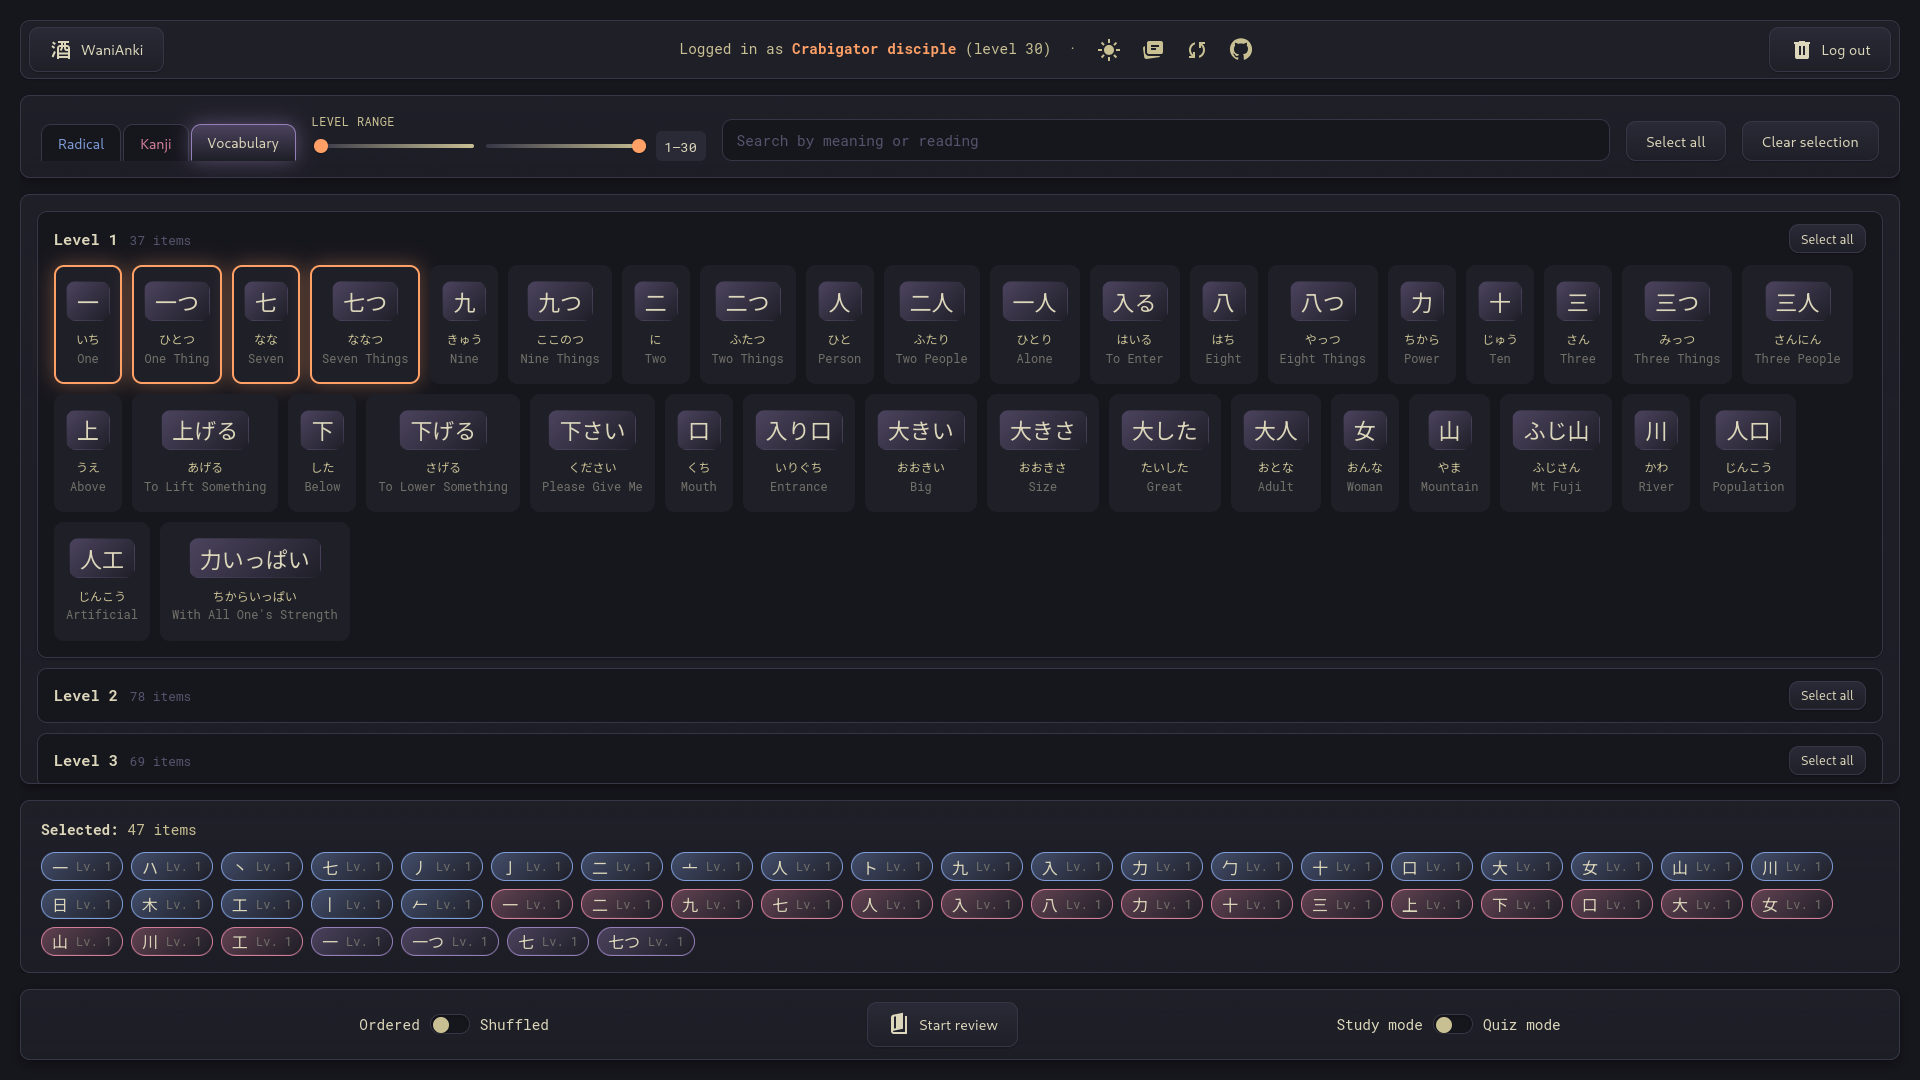
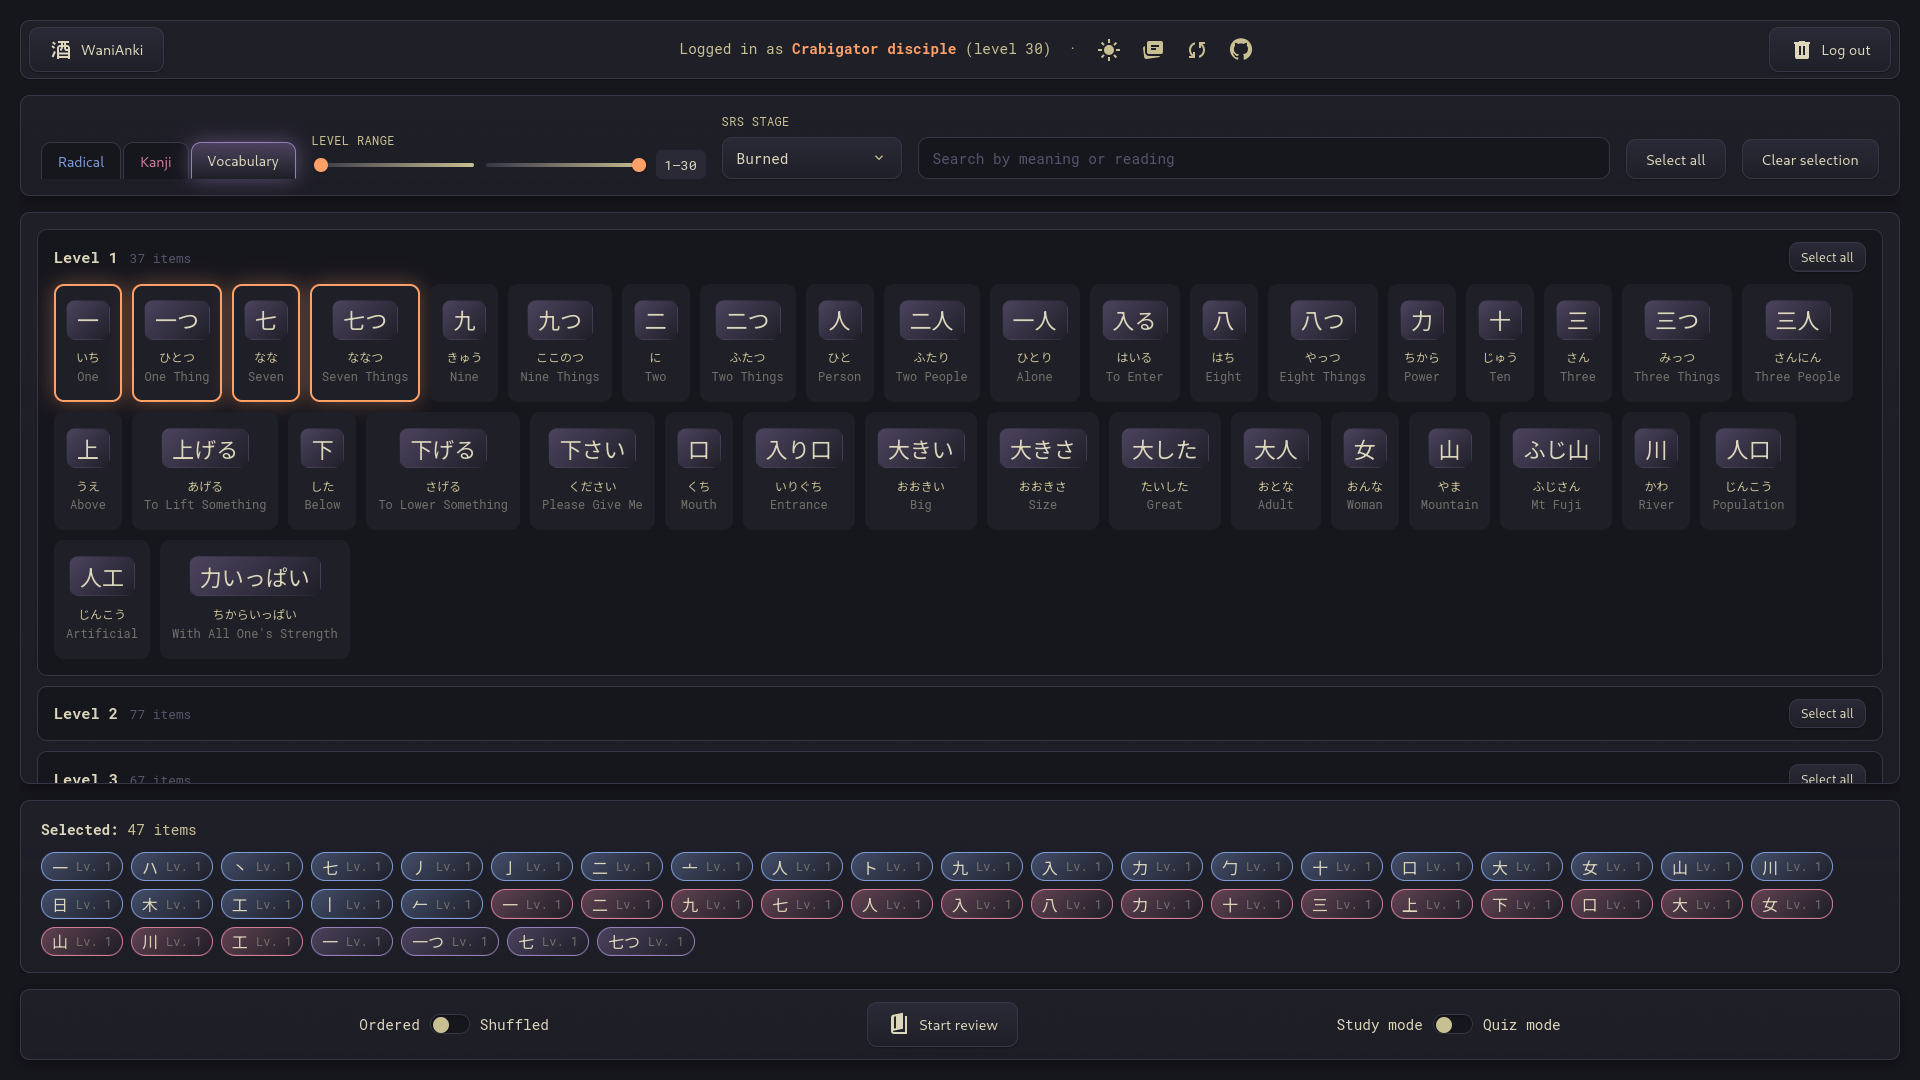
docs: Update README and pictures for SRS stages filtering feature.

diff --git a/README.md b/README.md
@@ -5,7 +5,7 @@ A lightweight web application that **fetches review subjects from your WaniKani 
 ## Features
 
 - 📴 **Offline reviews** — review cached subjects without an active network connection.
-- 🎯 **Flexible selection** — filter by subject type and level range, search by meaning or reading, or toggle entire levels at once.
+- 🎯 **Flexible selection** — filter by subject type, level range, and SRS stage, search by meaning or reading, or toggle entire levels at once.
 - 💾 **Local persistence** — all data is stored in-browser using the OPFS API.
 - 📚 **Two review modes** — study mode for reading content, quiz mode for testing yourself.
 - 🗂️ **Saved review decks** — save your current selection as a named deck and load it later for quick access.
@@ -20,7 +20,7 @@ A lightweight web application that **fetches review subjects from your WaniKani 
 Provide a valid WaniKani personal access token with `all_data:read` permission.
 
 ![selection-page](./assets/selection-page.png)
-Select subjects using the tabbed filter (radical, kanji, vocabulary), adjust the level range with sliders, or search by meaning or reading with autocomplete suggestions. Browse subjects grouped by level, toggle entire levels at once, or click individual items. Selected subjects appear as removable chips at the bottom. Choose ordered or shuffled review, then start in either study mode or quiz mode.
+Select subjects using the tabbed filter (radical, kanji, vocabulary), adjust the level range with sliders, filter by SRS stage (Locked, Apprentice, Guru, Master, Enlightened, Burned), or search by meaning or reading with autocomplete suggestions. Browse subjects grouped by level, toggle entire levels at once, or click individual items. Selected subjects appear as removable chips at the bottom. Choose ordered or shuffled review, then start in either study mode or quiz mode.
 
 When you level up on WaniKani, use the sync button in the header to fetch your new subjects. You'll be prompted to re-enter your API token, which is used only for that request and then discarded.
 